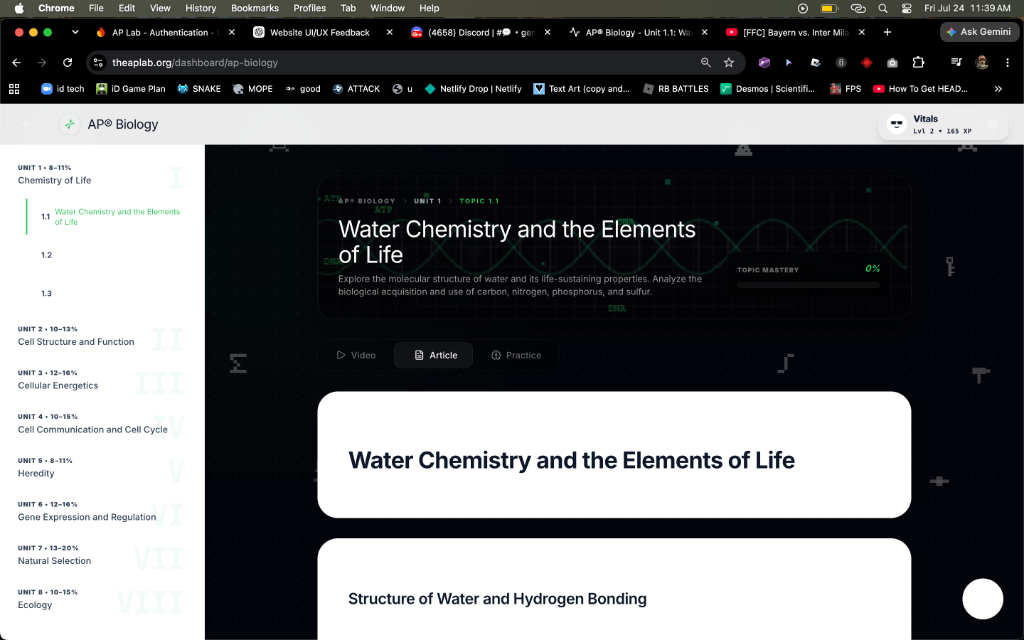
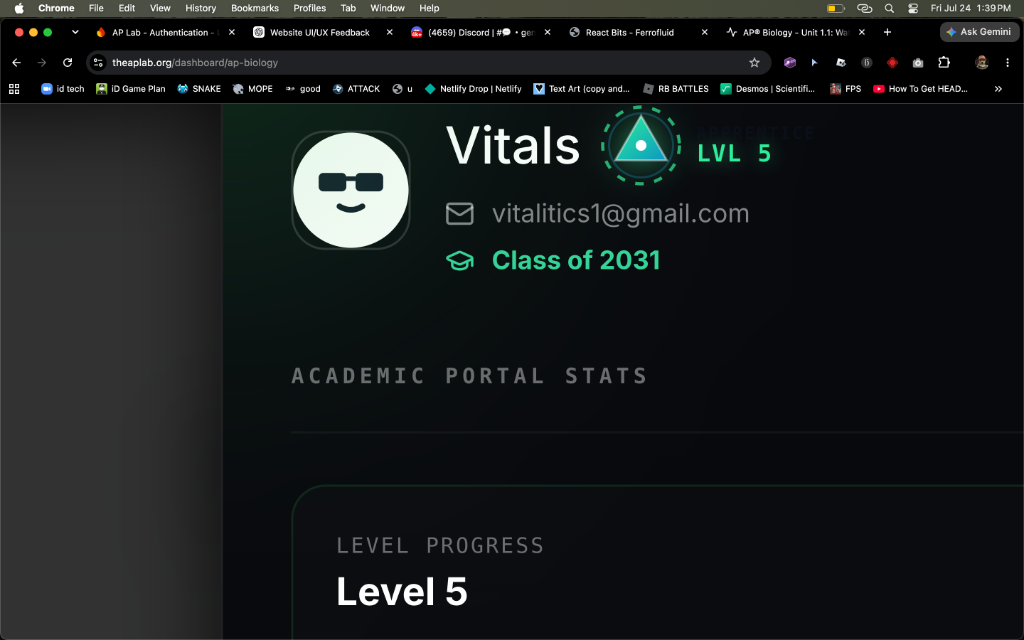
Update project files

diff --git a/src/components/VocabularyPopover.tsx b/src/components/VocabularyPopover.tsx
@@ -19,19 +19,21 @@ export function VocabularyPopover({ term, definition, children, accentColor, acc
   const { progress } = useProgress();
   const isLightMode = progress?.theme === "light";
 
+  const resolvedAccent = accentColor || "var(--theme-accent, #22c55e)";
+
   return (
     <span className="relative inline-block">
       <button 
         onMouseEnter={() => setIsOpen(true)}
         onMouseLeave={() => setIsOpen(false)}
-        className="inline-flex items-center font-bold border-b transition-all cursor-help group"
+        className="inline-flex items-center font-bold border-b transition-all cursor-help group vocab-term-btn"
         style={{
-          color: accentColor || "var(--theme-accent, #22c55e)",
+          color: resolvedAccent,
           borderBottomColor: accentColorBorder || "var(--theme-accent-border, rgba(34, 197, 94, 0.3))"
         }}
       >
         {children || term}
-        <Info className="w-3 h-3 ml-1 opacity-50 group-hover:opacity-100 transition-opacity" />
+        <Info className="w-3 h-3 ml-1 opacity-50 group-hover:opacity-100 transition-opacity" style={{ color: resolvedAccent }} />
       </button>
 
       <AnimatePresence>
@@ -46,7 +48,7 @@ export function VocabularyPopover({ term, definition, children, accentColor, acc
             )}
           >
             <div className="space-y-1.5">
-              <h5 className="font-manrope font-black text-[10px] uppercase tracking-widest" style={{ color: accentColor || "var(--theme-accent, #22c55e)" }}>{term}</h5>
+              <h5 className="font-manrope font-black text-[10px] uppercase tracking-widest" style={{ color: resolvedAccent }}>{term}</h5>
               <p className={cn("text-xs leading-relaxed font-inter", isLightMode ? "text-slate-800 font-medium" : "text-white/80")}>
                 {definition}
               </p>

diff --git a/src/app/globals.css b/src/app/globals.css
@@ -90,6 +90,51 @@ html.light-theme .course-page-container .liquid-glass-strong {
   box-shadow: 0 4px 20px rgba(0, 0, 0, 0.04) !important;
 }
 
+/* Markdown Tables Styling in Light Mode */
+html.light-theme .course-page-container table,
+html.light-theme .article-content-container table,
+html.light-theme .prose table {
+  width: 100% !important;
+  border-collapse: collapse !important;
+  margin: 1.5rem 0 !important;
+  background-color: #ffffff !important;
+  border: 1px solid #cbd5e1 !important;
+  border-radius: 12px !important;
+  overflow: hidden !important;
+  box-shadow: 0 1px 4px rgba(0, 0, 0, 0.04) !important;
+}
+
+html.light-theme .course-page-container th,
+html.light-theme .article-content-container th,
+html.light-theme .prose th {
+  background-color: #f1f5f9 !important;
+  color: #0f172a !important;
+  font-weight: 700 !important;
+  padding: 12px 16px !important;
+  border: 1px solid #cbd5e1 !important;
+  text-align: left !important;
+}
+
+html.light-theme .course-page-container td,
+html.light-theme .article-content-container td,
+html.light-theme .prose td {
+  background-color: #ffffff !important;
+  color: #0f172a !important;
+  padding: 12px 16px !important;
+  border: 1px solid #e2e8f0 !important;
+}
+
+html.light-theme .course-page-container tr:nth-child(even) td,
+html.light-theme .article-content-container tr:nth-child(even) td,
+html.light-theme .prose tr:nth-child(even) td {
+  background-color: #f8fafc !important;
+}
+
+/* Vocab term button text color override in Light Mode */
+html.light-theme .vocab-term-btn {
+  color: var(--theme-accent, #22c55e) !important;
+}
+
 html {
   scroll-behavior: smooth;
 }

diff --git a/src/components/SelectionAIPopover.tsx b/src/components/SelectionAIPopover.tsx
@@ -2,7 +2,6 @@
 
 import { useState, useEffect, useRef } from "react";
 import { motion, AnimatePresence } from "framer-motion";
-import { Sparkles } from "lucide-react";
 import { useProgress } from "@/context/ProgressContext";
 import { cn } from "@/lib/utils";
 
@@ -73,14 +72,13 @@ export function SelectionAIPopover({ onAsk }: { onAsk: (text: string) => void })
               window.getSelection()?.removeAllRanges();
             }}
             className={cn(
-              "px-3.5 py-2 rounded-xl border shadow-2xl transition-all cursor-pointer font-medium flex items-center gap-1.5 active:scale-95",
+              "px-3.5 py-1.5 rounded-full transition-all cursor-pointer font-medium flex items-center justify-center active:scale-95",
               isLightMode 
-                ? "bg-slate-900 border-slate-700 text-white shadow-slate-900/30 hover:bg-slate-800" 
-                : "liquid-glass-strong border-white/20 text-white hover:bg-white/10"
+                ? "bg-white border border-black text-black shadow-md hover:bg-neutral-100 font-sans text-xs font-semibold" 
+                : "liquid-glass-strong border border-white/10 text-white shadow-xl hover:bg-white/10 text-xs font-sans"
             )}
           >
-            <Sparkles className="w-3.5 h-3.5 text-cyan-400" />
-            <span className="text-xs font-manrope font-bold text-white tracking-wide">Ask AI</span>
+            <span className={cn("text-xs font-sans font-medium tracking-wide", isLightMode ? "text-black" : "text-white")}>Ask AI</span>
           </button>
         </motion.div>
       )}

diff --git a/src/components/PixelCourseBackground.tsx b/src/components/PixelCourseBackground.tsx
@@ -7,13 +7,13 @@ export function PixelCourseBackground() {
   const isLightMode = progress?.theme === "light";
 
   return (
-    <div className={`fixed inset-0 pointer-events-none -z-10 overflow-hidden select-none transition-colors duration-300 ${isLightMode ? "bg-slate-50" : "bg-[#03040a]"}`}>
-      {/* High-Contrast Dot Matrix Grid Overlay (Crisp Dark Dots in Light Mode, Reduced Opacity White Dots in Dark Mode) */}
+    <div className={`fixed inset-0 pointer-events-none -z-10 overflow-hidden select-none transition-colors duration-300 ${isLightMode ? "bg-white" : "bg-[#03040a]"}`}>
+      {/* High-Contrast Dot Matrix Grid Overlay (Crisp Black Dots on Pure White Background in Light Mode, Reduced Opacity White Dots in Dark Mode) */}
       <div 
         className="absolute inset-0 pointer-events-none transition-opacity duration-500"
         style={{
           backgroundImage: isLightMode 
-            ? "radial-gradient(circle, rgba(15, 23, 42, 0.45) 1.5px, transparent 1.5px)" 
+            ? "radial-gradient(circle, rgba(0, 0, 0, 0.45) 1.5px, transparent 1.5px)" 
             : "radial-gradient(circle, rgba(255, 255, 255, 0.35) 1.5px, transparent 1.5px)",
           backgroundSize: "24px 24px",
           opacity: isLightMode ? 0.75 : 0.4
